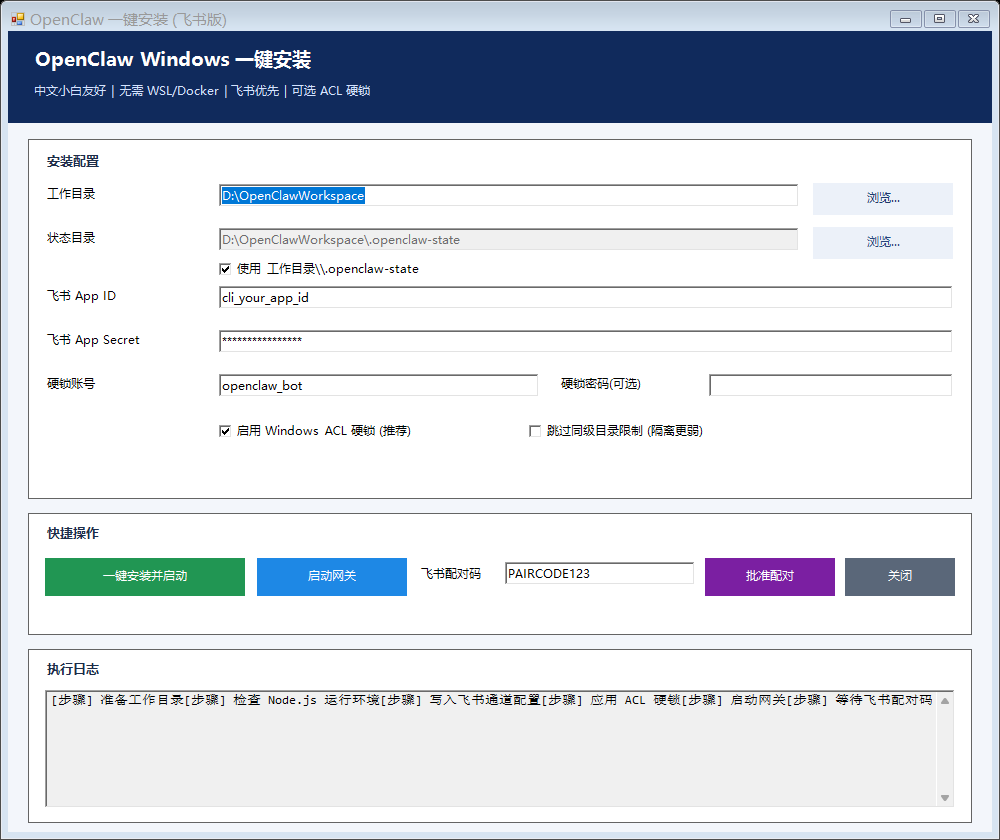
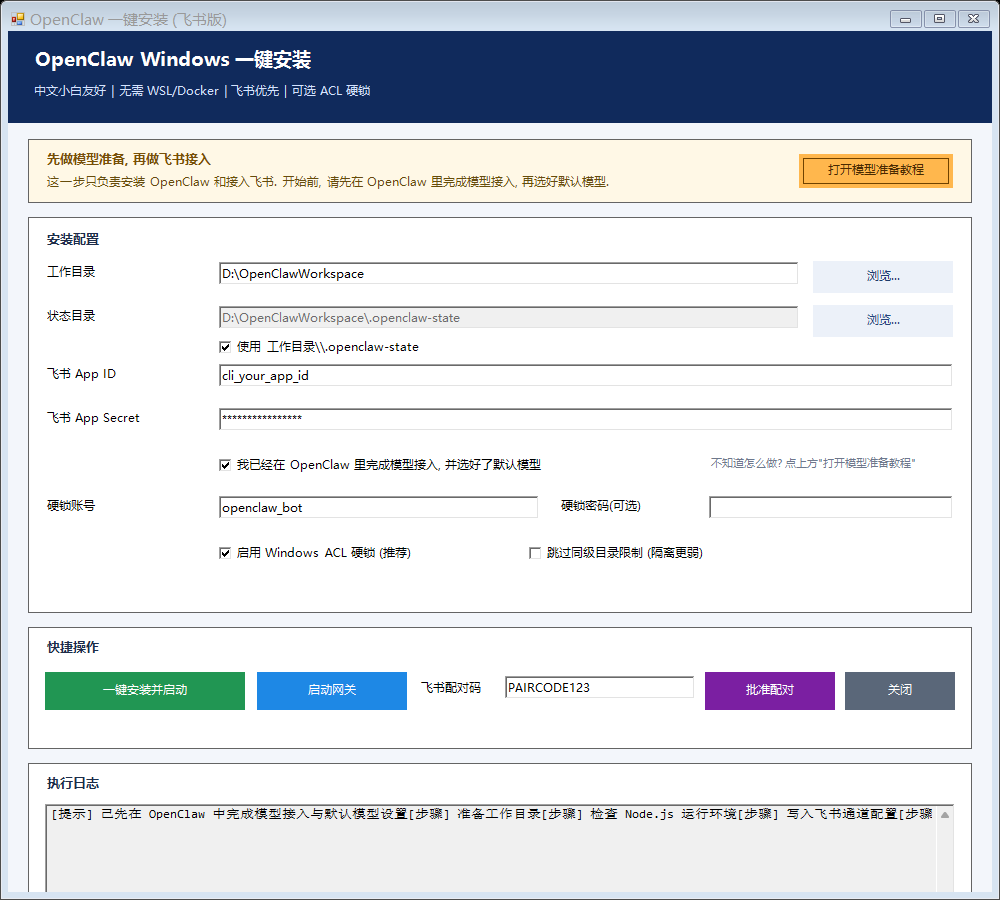
feat(release): block install until model setup is complete

diff --git a/docs/OPENCLAW_MODEL_SETUP_CN.md b/docs/OPENCLAW_MODEL_SETUP_CN.md
@@ -1,0 +1,84 @@
+# OpenClaw 模型准备教程
+
+这个安装器只负责两件事:
+
+1. 在 Windows 上安装和配置 OpenClaw
+2. 把飞书通道接进来
+
+它不负责替你完成模型接入, 也不负责替你选默认模型。
+
+所以正确顺序是:
+
+1. 先把 OpenClaw 里的模型跑通
+2. 再运行这个飞书安装器
+
+## 你需要先完成什么
+
+开始这个安装器前, 请先确认:
+
+1. 你已经在 OpenClaw 里完成模型接入
+2. 你已经在 OpenClaw 里选好了默认模型
+
+## 最简单的做法
+
+在 PowerShell 里运行:
+
+```powershell
+openclaw configure --section model
+```
+
+这个步骤的目标不是“填某个固定 API Key”, 而是先让 OpenClaw 知道:
+
+1. 你要用哪个模型提供商
+2. 你要用哪个账号或授权方式
+3. 默认跑哪个模型
+
+## 完成后怎么自检
+
+先看默认模型:
+
+```powershell
+openclaw config get agents.defaults.model.primary
+```
+
+如果这里返回了一个模型 ID, 说明默认模型已经写入。
+
+再看当前模型状态:
+
+```powershell
+openclaw models status --plain
+```
+
+如果这里能看到当前默认模型, 就说明模型链路基本已经打通。
+
+## 常见情况
+
+### 情况 1: 你用 Codex / OAuth
+
+这种情况通常不是在这个安装器里填 API Key。
+
+更常见的流程是:
+
+1. 先在 OpenClaw 的模型配置里完成登录或授权
+2. 再把默认模型设好
+3. 最后回来运行飞书安装器
+
+### 情况 2: 你用 API 模式
+
+这种情况通常是:
+
+1. 先在 OpenClaw 的模型配置里填好对应 provider 的 API 凭证
+2. 再设默认模型
+3. 最后回来运行飞书安装器
+
+## 只想快速确认, 不想研究概念
+
+你可以直接按下面顺序做:
+
+```powershell
+openclaw configure --section model
+openclaw config get agents.defaults.model.primary
+openclaw models status --plain
+```
+
+如果第二条和第三条都能返回正常结果, 就可以回来运行 `install.cmd` 了。

diff --git a/README.md b/README.md
@@ -20,7 +20,10 @@
    或直接打开：
    `https://github.com/fantasyengineercdream/claw_windowsguide/archive/refs/heads/main.zip`
 2. 解压后，双击 `install.cmd`。
-3. 按界面填写飞书 App ID 和 App Secret，然后点击 `一键安装并启动`。
+3. 先按 [`docs/OPENCLAW_MODEL_SETUP_CN.md`](docs/OPENCLAW_MODEL_SETUP_CN.md) 把 OpenClaw 里的模型接入和默认模型配置好。
+4. 再按界面填写飞书 App ID 和 App Secret，然后点击 `一键安装并启动`。
+
+如果你还没完成模型接入或默认模型选择，安装器会直接提醒并拦住，不会让你带着错误配置继续往下走。
 
 对大多数用户来说，到这里已经够用了。
 
